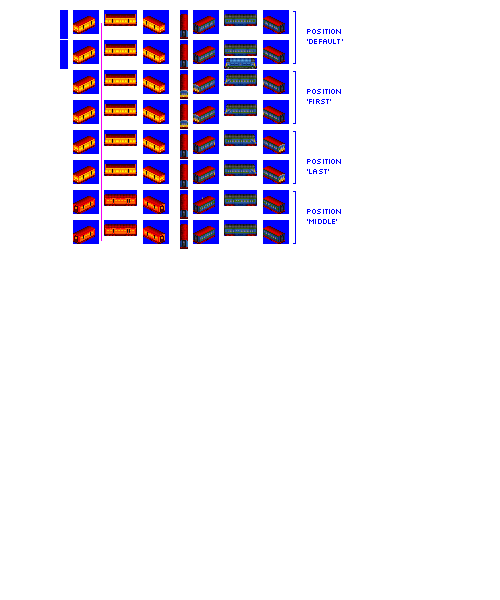
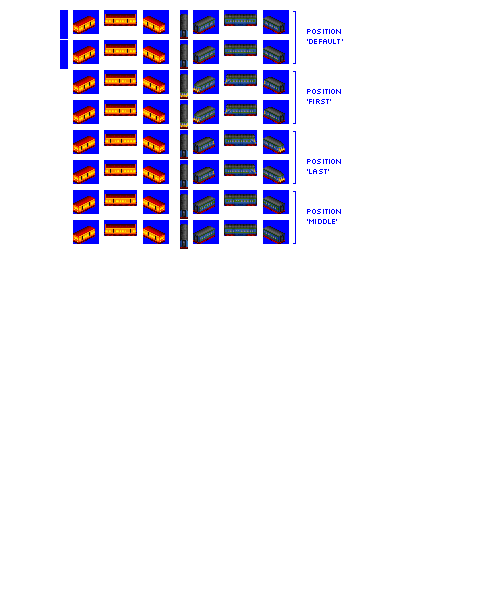
Change: sprites complete for Kraken

diff --git a/src/vehicles/pony/kraken.py b/src/vehicles/pony/kraken.py
@@ -18,7 +18,7 @@ def main(**kwargs):
         intro_year_offset=2,  # introduce later by design
         # this railcar type specifies liveries per model_def for flexibility
         livery_group_name="default_suburban_pax_liveries", # hax for now
-        sprites_complete=False,
+        sprites_complete=True,
     )
 
     model_def.add_unit_def(

diff --git a/src/vehicles/pony/express_railcar_passenger_trailer_cars_pony.py b/src/vehicles/pony/express_railcar_passenger_trailer_cars_pony.py
@@ -12,7 +12,7 @@ def main(**kwargs):
         gen=3,
         subtype="U",
         cab_id="kraken",
-        sprites_complete=False,
+        sprites_complete=True,
     )
 
     model_def.add_unit_def(
